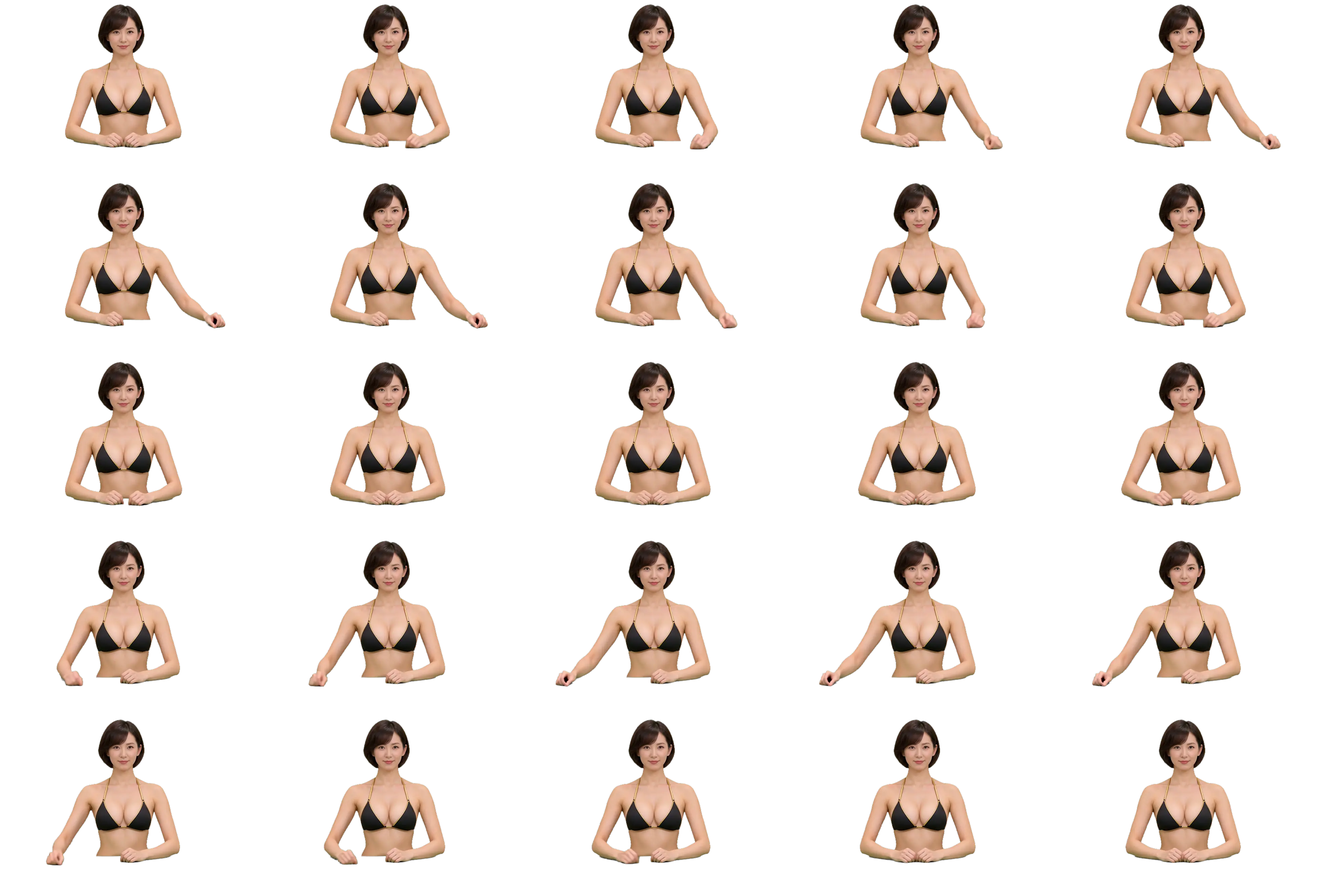
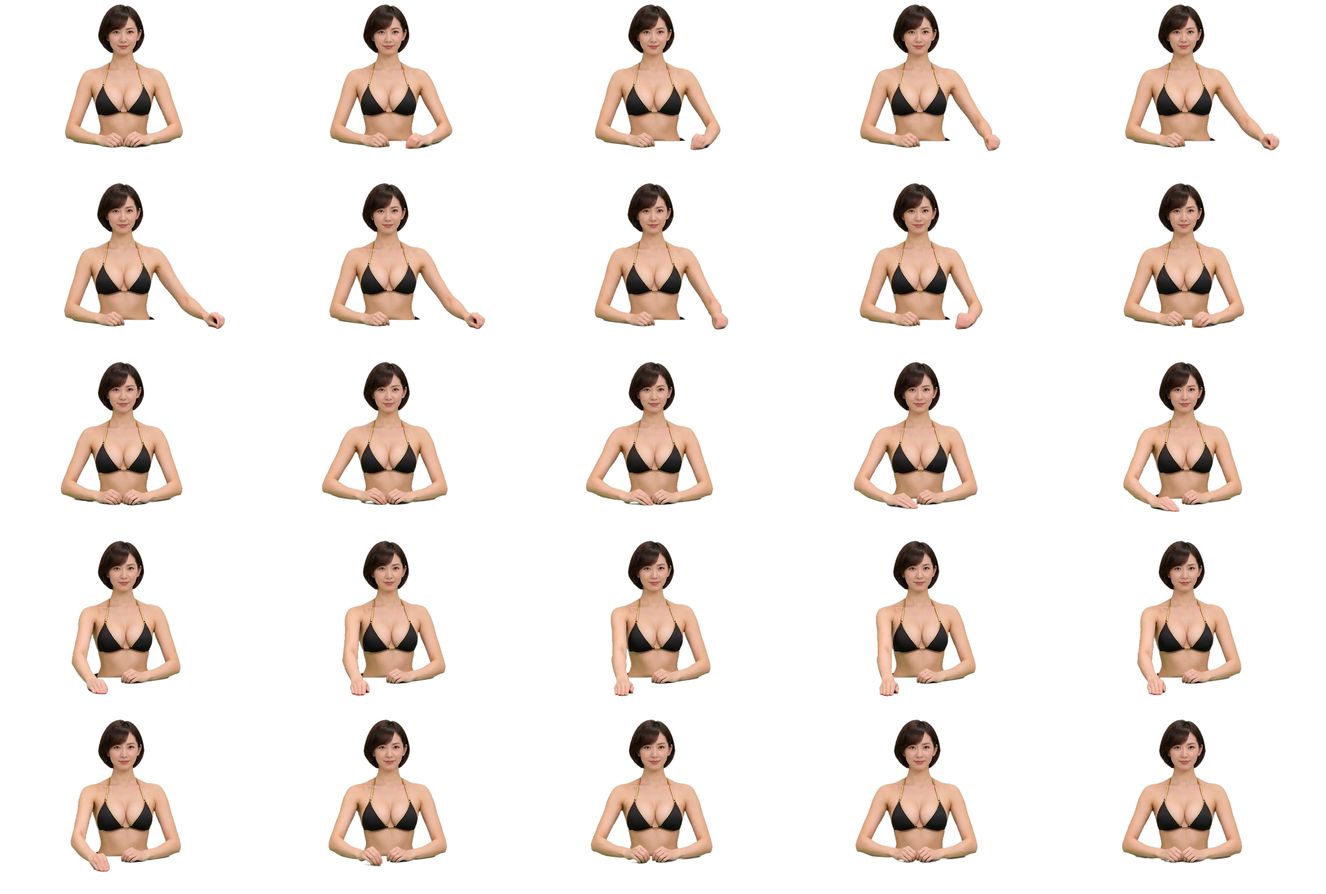
Deploy casino v0.24.3: new deal clips for all dealers
Claude-Session: https://claude.ai/code/session_011oS1hF5NfJ3QT3qcWv1JPQ

diff --git a/docs/casino/index.html b/docs/casino/index.html
@@ -2153,12 +2153,12 @@ html.ios-app .toasts { top: calc(env(safe-area-inset-top, 0px) + 86px); }
         <button class="gtile" type="button" id="lobbySlots"><span class="ico"><svg viewBox="0 0 48 48" aria-hidden="true" fill="none" stroke="currentColor" stroke-width="2.2" stroke-linecap="round" stroke-linejoin="round"><rect x="7" y="8" width="30" height="34" rx="4"/><rect x="11" y="15" width="22" height="13" rx="2"/><path d="M18.3 15v13M25.7 15v13"/><path d="M13 19h3.5l-2.2 6M20.3 19h3.5l-2.2 6M27.6 19h3.5l-2.2 6" stroke-width="1.6"/><path d="M41 12v14M41 26h-4"/><circle cx="41" cy="10" r="2.6" fill="currentColor"/><path d="M13 34h18" /></svg></span><b>老虎机<span class="lh-x">系列</span></b><small>龙腾财宝 · 宝石瀑布 · 水果转轮 · 深海寻宝 · 雷神之锤 · 幸运 7</small></button>
       </div>
     </div>
-    <div class="lfoot"><button class="verbtn" type="button" data-rules="verSheet">俱乐部 <b>v0.24.2</b> · 更新记录</button></div>
+    <div class="lfoot"><button class="verbtn" type="button" data-rules="verSheet">俱乐部 <b>v0.24.3</b> · 更新记录</button></div>
   </section>
 
   <div class="sheet" id="verSheet" hidden><div class="sheet-in" role="dialog" aria-label="更新记录">
     <div class="sheet-head"><h3>更新记录</h3><span class="note">大改版 +0.1.0 · 小版本 +0.0.1</span><button class="iconbtn" type="button" data-close aria-label="关闭">×</button></div>
-    <ol class="vlist"><li><b>v0.24.2</b><span>最后一局：荷官伸手从牌靴抽出黑色 LAST HAND 切牌卡，放在桌子左边，卡片平贴桌面，和闲、庄格子同一个角度（百家乐、龙虎、联机百家乐）</span></li><li><b>v0.24.1</b><span>荷官的腰和桌子贴合：桌面一直延伸到荷官身前，双手自然放在桌面上；联机百家乐的荷官画面放大（下注区、路单和玩家列更紧凑）</span></li><li><b>v0.24.0</b> <i class="vmaj">大改版</i><span>高清真人荷官回归：百家乐 A–D 桌、龙虎两桌和联机百家乐的 7 位荷官全部换成高清绿幕画面，待机眨眼，亲手从牌靴发牌、把牌推到闲庄格子，开牌后一扫收牌，牌跟着手走；身体不再抖动、闪烁或出白边</span></li><li><b>v0.23.0</b> <i class="vmaj">大改版</i><span>麻将新玩法「三人快打（飞）」：3 人、84 张（筒子、字牌、16 张花、4 张百搭飞），5 番起胡；飞可以代替碰、吃，摸到被代替的牌自动起飞，打出飞叫囤飞 +1 番；咬到、花杠、杠马上收钱并加爆，结算 = 番 × 番倍数 × 爆 × 1.5 / 2。所有麻将玩法加入碰、吃、杠、胡、自摸的大字动画</span></li><li><b>v0.22.11</b><span>大厅、百家乐、龙虎和联机百家乐上方加入滚动公告，按 × 可以关闭</span></li><li><b>v0.22.10</b><span>为了给大家更好的观感，真人荷官暂时下桌休息，全新高清版本已经在制作中，敬请期待！在此期间，百家乐、龙虎和联机百家乐会直接显示牌局画面，路单也一直摊开，开牌一目了然。</span></li><li><b>v0.22.9</b><span>荷官动画：清掉动画图的半透明杂点和浅色白边，不再闪烁；桌子凹口逐格贴着荷官的腰线，不再露出空隙或穿过桌面；待机时大多只眨眼，转头少很多</span></li><li><b>v0.22.8</b><span>修复荷官待机时露出相邻画面的问题。</span></li><li><b>v0.22.7</b><span>百家乐与龙虎荷官使用新版动画，龙虎采用同款荷官桌面、路单与牌局布局。</span></li><li><b>v0.22.6</b><span>修正：百家乐荷官动起来时闪烁和白边（清掉动画图里的半透明杂点和浅色描边；发牌、收牌两组动画预先载好，切换不再空白一下）</span></li><li><b>v0.22.5</b><span>百家乐：桌上的牌和闲、庄格子用同一个透视角度，牌平贴在格子里；小屏幕上牌也完整露出</span></li><li><b>v0.22.4</b><span>百家乐：去掉「试发一局」，倒数和牌局状态移到荷官画面右上角，删掉中间那一行让荷官画面更大；桌子凹口改成圆角</span></li><li><b>v0.22.3</b><span>百家乐牌桌改成发牌台形状：两侧桌面延伸到荷官身后，中间凹进去让荷官站在里面；闲、庄格子和牌都跟桌面同一个透视角度</span></li><li><b>v0.22.2</b><span>百家乐和联机百家乐：桌边、牌靴和闲庄牌区对齐荷官的双手，任何屏幕大小都不会错位；荷官画面按屏幕自动调整高度，整页一屏放得下；联机房的聊天列恢复显示</span></li><li><b>v0.22.1</b><span>修正：十三张结算后四家名牌旁的输赢不会消失；联机百家乐开完牌马上更新每个人的输赢</span></li><li><b>v0.22.0</b> <i class="vmaj">大改版</i><span>新游戏「麻将」：港式、四川血战到底、台湾十六张，可练习对 AI 或联机；十三张改成立体牌桌：推荐摆法、牌型快捷键、对调、开始比牌、打枪瞄准开枪、本局结算明细</span></li><li><b>v0.21.2</b><span>百家乐 A、B、C、D 桌及联机房新增五位荷官，发牌和收牌使用每秒 24 张画面，牌局与路单自动翻转。</span></li><li><b>v0.21.1</b><span>百家乐加入双手发牌和右侧牌靴，荷官桌面与牌局同步显示白色牌面。老虎机重绘机台，并更新吉祥物待机和奖励动画。</span></li><li><b>v0.21.0</b> <i class="vmaj">大改版</i><span>新游戏「十三张」：练习桌对 3 个 AI，或开房间和朋友联机（2–4 人，空位 AI 补上）；点选摆牌、自动摆牌、报到、逐道比牌、打枪、全垒打</span></li><li><b>v0.20.2</b><span>百家乐、龙虎、联机百家乐：结果出来 1.5 秒后把牌收成一叠往左边滑走，然后才开始倒数；其他牌桌在下一局发牌前收牌</span></li><li><b>v0.20.1</b><span>联机百家乐加上大眼仔、小路、曱甴路、闲庄和局数，以及 P / B 问路</span></li><li><b>v0.20.0</b><span>老虎机：转轴停下有弹跳和闪光；差一个就进特殊奖励时最后几列放慢发光；大奖动画随金额升级（大奖→巨奖→超级巨奖→史诗大奖）并按机器换颜色；待机时转轴窗口有扫光，深海有鱼影游过，水果机飘起柠檬橙子片</span></li><li><b>v0.19.1</b><span>大奖画面的雷神和金龙去掉白边并一直循环动；雷神免费旋转时标题不再跟着移动</span></li><li><b>v0.19.0</b><span>每台老虎机有自己的中奖特效：金龙喷火球、宝石迸出碎光、水果溅出果汁、深海涟漪和气泡、幸运 7 霓虹烟花；大奖再加全屏特效</span></li><li><b>v0.18.9</b><span>所有老虎机标题改成印在机身上的金属渐层字，不再有方框</span></li><li><b>v0.18.8</b><span>金龙和雷神插画放大，贴在转轴边框上方；龙腾财宝四个头奖排成一行</span></li><li><b>v0.18.7</b><span>优化：龙腾财宝、雷神之锤自动放进一屏；待机动画缩小约 2/3，打开机台才下载；德州摊牌写出完整牌型与踢脚、亮出赢家的 5 张牌；整理重复程序</span></li><li><b>v0.18.6</b><span>雷神之锤：雷球被闪电劈中后才亮起并显示倍数</span></li><li><b>v0.18.5</b><span>金龙和雷神换上新版待机动画与 1.5 秒逐帧奖励动画。</span></li><li><b>v0.18.4</b><span>金龙和雷神改成待机动画，中奖时才播放特殊动画</span></li><li><b>v0.18.3</b><span>正面雷神逐帧挥锤，金龙与雷神加入特殊奖励动画。</span></li><li><b>v0.18.2</b><span>金龙与雷神移到转轴上方，恢复转轴尺寸，加入金龙蜿蜒吐焰与雷神挥锤动画。</span></li><li><b>v0.18.1</b><span>重绘「龙腾财宝」和「雷神之锤」机台，加入金龙游动、雷神守望和旋转特效。</span></li><li><b>v0.18.0</b> <i class="vmaj">大改版</i><span>新老虎机「雷神之锤」：6×5 任意位置中奖、连环消除、雷球倍数 ×500、免费旋转总倍数累积、买免费旋转、加注，闪电特效</span></li><li><b>v0.17.2</b><span>百家乐、龙虎、联机百家乐：牌靴快用完时宣布「最后一局」（动画提醒），那一局结束后才换牌靴</span></li><li><b>v0.17.1</b><span>背景音乐全部换成爵士乐（8 首）；可以从手机加入自己的歌曲</span></li><li><b>v0.17.0</b> <i class="vmaj">大改版</i><span>德州联机房：所有人按「准备」才开始；AI 荷官发牌动画（底牌一张张发到每个座位，公共牌飞到桌上翻开）</span></li><li><b>v0.16.4</b><span>老虎机的免费旋转和奖金转盘要玩家点「开始」才开始（自动旋转时 2 秒后自动开始）；修正水果转轮奖金转盘在手机上不转</span></li><li><b>v0.16.3</b><span>水果转轮奖金转盘、深海寻宝免费旋转更容易触发（回报率仍约 96%）</span></li><li><b>v0.16.2</b><span>修正：iPhone 上背景音乐音量调节无效</span></li><li><b>v0.16.1</b><span>联机房间和练习桌加上开始 / 暂停（房主控制）</span></li><li><b>v0.16.0</b> <i class="vmaj">大改版</i><span>背景音乐（5 首赌场酒廊爵士，可开关、选曲、调音量）；轮盘、老虎机、金币、宝石的真实音效</span></li><li><b>v0.15.1</b><span>牛牛：对子比点数大，都是对子就比对子大小</span></li><li><b>v0.15.0</b> <i class="vmaj">大改版</i><span>加入真实录音音效：筹码、发牌、放牌、洗牌、派彩筹码声（Kenney Casino Audio，CC0）</span></li><li><b>v0.14.9</b><span>音效重做：筹码、发牌、翻牌、倒数、转轮、中奖都更像真实的声音，加上房间回音</span></li><li><b>v0.14.8</b><span>大厅换牌靴时，动画结束后才显示烧了几张</span></li><li><b>v0.14.7</b><span>修正：联机百家乐房主画面的中奖框不会熄灭、路单比牌先出</span></li><li><b>v0.14.6</b><span>清理不再使用的旧样式和旧存档转换代码</span></li><li><b>v0.14.5</b><span>龙虎的下三路和问路也改成红 / 金</span></li><li><b>v0.14.4</b><span>修正：联机百家乐和大厅里的牌桌，要等牌发完才公布结果、路单和输赢</span></li><li><b>v0.14.3</b><span>龙虎改成龙红、虎金；和与同花和合成一个上下对半的青色圆</span></li><li><b>v0.14.2</b><span>龙虎加上问路（预测）按钮；龙虎点数直接显示 A、J、Q、K</span></li><li><b>v0.14.1</b><span>联机房间可以打字聊天，有未读提示</span></li><li><b>v0.14.0</b> <i class="vmaj">大改版</i><span>德州练习桌：一个人和 1–8 个 AI 对打；联机合并成一个入口，输入房间号自动认出游戏；左上角固定的金色「大厅」按钮</span></li><li><b>v0.13.0</b> <i class="vmaj">大改版</i><span>德州扑克联机房：玩家对玩家、AI 荷官发牌、最多 9 人、无限注、边池、抽水 5%；百家乐和龙虎换桌时桌号直接写在牌桌中间；修正离开联机房时筹码退两次</span></li><li><b>v0.12.0</b> <i class="vmaj">大改版</i><span>联机房间：开房间拿 6 位房间号，和朋友同桌玩百家乐，同一副牌、同一条路，看得到彼此的下注和输赢，可以发表情</span></li><li><b>v0.11.1</b><span>牛牛加入对子（组成牛点的两张是对子赔 2 倍）；大厅恢复完整排版，可以上下滑动</span></li><li><b>v0.11.0</b> <i class="vmaj">大改版</i><span>新老虎机「深海寻宝」：潜水员收集宝箱、升级倍数到 ×10；每台老虎机加上跑马灯、背景特效和中奖金币</span></li><li><b>v0.10.0</b> <i class="vmaj">大改版</i><span>新游戏：龙虎（2 桌）、牛牛、老虎机「水果转轮」；换牌靴动画约 20 秒；老虎机按钮显示当前机台图标，左右滑动只换机台</span></li><li><b>v0.9.3</b><span>主动洗牌时大厅也能看到洗牌、装靴、烧牌过程</span></li><li><b>v0.9.2</b><span>发牌中也可以换桌；大厅清楚显示烧牌张数</span></li><li><b>v0.9.1</b><span>百家乐和老虎机滑动时画面跟手切换；大厅显示换牌靴动画</span></li><li><b>v0.9.0</b> <i class="vmaj">大改版</i><span>新老虎机「宝石瀑布」：6×5 任意位置中奖、连环消除、倍数阶梯</span></li><li><b>v0.8.10</b><span>加上版本号与更新记录</span></li><li><b>v0.8.9</b><span>金币锁定重转更易出金币，转动更久</span></li><li><b>v0.8.8</b><span>金币锁定更常出现，金币金额调低</span></li><li><b>v0.8.7</b><span>GRAND、MAJOR 数字滚动；大厅选机弹窗</span></li><li><b>v0.8.6</b><span>龙腾财宝中奖率提高；选机弹窗</span></li><li><b>v0.8.5</b><span>金币锁定由玩家旋转，空格有转轮效果</span></li><li><b>v0.8.4</b><span>老虎机直接选每局金额</span></li><li><b>v0.8.3</b><span>老虎机合并为系列；大奖动画 20 秒</span></li><li><b>v0.8.2</b><span>老虎机符号重绘为写实风格</span></li><li><b>v0.8.1</b><span>老虎机加速；大奖动画</span></li><li><b>v0.8.0</b> <i class="vmaj">大改版</i><span>新老虎机「龙腾财宝」：243 路、金币锁定、四级头奖</span></li><li><b>v0.7.2</b><span>老虎机自动旋转</span></li><li><b>v0.7.1</b><span>去掉重置 10,000 按钮</span></li><li><b>v0.7.0</b> <i class="vmaj">大改版</i><span>新游戏：德州扑克、老虎机；滑动换桌；大厅图标</span></li><li><b>v0.6.2</b><span>离开牌桌也照常开局并提示结果</span></li><li><b>v0.6.1</b><span>改名「俱乐部」；换牌靴动画与烧牌</span></li><li><b>v0.6.0</b> <i class="vmaj">大改版</i><span>黑金配色与新图标</span></li><li><b>v0.5.2</b><span>每个游戏加「重复」下注</span></li><li><b>v0.5.1</b><span>+100 万余额按钮；10k、100k 筹码</span></li><li><b>v0.5.0</b> <i class="vmaj">大改版</i><span>所有游戏统一界面；百家乐 4 桌；新游戏三张牌</span></li><li><b>v0.4.4</b><span>修 iPhone 主屏幕底部被裁</span></li><li><b>v0.4.3</b><span>修 iPhone 主屏幕顶部被挡</span></li><li><b>v0.4.2</b><span>21点也从牌靴发牌；修主屏幕位置</span></li><li><b>v0.4.1</b><span>音效；发牌从牌靴飞出并翻牌；筹码居中</span></li><li><b>v0.4.0</b> <i class="vmaj">大改版</i><span>百家乐改成真人桌布局：下三路、问路、龙宝、完美对子</span></li><li><b>v0.3.1</b><span>百家乐改为 15 秒自动开局</span></li><li><b>v0.3.0</b> <i class="vmaj">大改版</i><span>做成可加到主屏幕的 App（离线可用）</span></li><li><b>v0.2.1</b><span>大厅显示路单、路单保存、洗牌按钮</span></li><li><b>v0.2.0</b> <i class="vmaj">大改版</i><span>重新布局：整个画面一屏不用滑动</span></li><li><b>v0.1.4</b><span>21点投降；路单移到上方；筹码栏固定底部</span></li><li><b>v0.1.3</b><span>下注处显示筹码叠；百家乐 30 秒自动开局</span></li><li><b>v0.1.2</b><span>轮盘加分注、街注、角注、线注；修竖屏比例</span></li><li><b>v0.1.1</b><span>百家乐不下注也可发牌，改为大路</span></li><li><b>v0.1.0</b> <i class="vmaj">大改版</i><span>首版：百家乐、21点、轮盘，虚拟筹码</span></li></ol>
+    <ol class="vlist"><li><b>v0.24.3</b><span>7 位荷官换上新版发牌动作：右手到牌靴取牌，把牌放到身前桌面再推进闲、庄（龙、虎）格子，牌跟着手走</span></li><li><b>v0.24.2</b><span>最后一局：荷官伸手从牌靴抽出黑色 LAST HAND 切牌卡，放在桌子左边，卡片平贴桌面，和闲、庄格子同一个角度（百家乐、龙虎、联机百家乐）</span></li><li><b>v0.24.1</b><span>荷官的腰和桌子贴合：桌面一直延伸到荷官身前，双手自然放在桌面上；联机百家乐的荷官画面放大（下注区、路单和玩家列更紧凑）</span></li><li><b>v0.24.0</b> <i class="vmaj">大改版</i><span>高清真人荷官回归：百家乐 A–D 桌、龙虎两桌和联机百家乐的 7 位荷官全部换成高清绿幕画面，待机眨眼，亲手从牌靴发牌、把牌推到闲庄格子，开牌后一扫收牌，牌跟着手走；身体不再抖动、闪烁或出白边</span></li><li><b>v0.23.0</b> <i class="vmaj">大改版</i><span>麻将新玩法「三人快打（飞）」：3 人、84 张（筒子、字牌、16 张花、4 张百搭飞），5 番起胡；飞可以代替碰、吃，摸到被代替的牌自动起飞，打出飞叫囤飞 +1 番；咬到、花杠、杠马上收钱并加爆，结算 = 番 × 番倍数 × 爆 × 1.5 / 2。所有麻将玩法加入碰、吃、杠、胡、自摸的大字动画</span></li><li><b>v0.22.11</b><span>大厅、百家乐、龙虎和联机百家乐上方加入滚动公告，按 × 可以关闭</span></li><li><b>v0.22.10</b><span>为了给大家更好的观感，真人荷官暂时下桌休息，全新高清版本已经在制作中，敬请期待！在此期间，百家乐、龙虎和联机百家乐会直接显示牌局画面，路单也一直摊开，开牌一目了然。</span></li><li><b>v0.22.9</b><span>荷官动画：清掉动画图的半透明杂点和浅色白边，不再闪烁；桌子凹口逐格贴着荷官的腰线，不再露出空隙或穿过桌面；待机时大多只眨眼，转头少很多</span></li><li><b>v0.22.8</b><span>修复荷官待机时露出相邻画面的问题。</span></li><li><b>v0.22.7</b><span>百家乐与龙虎荷官使用新版动画，龙虎采用同款荷官桌面、路单与牌局布局。</span></li><li><b>v0.22.6</b><span>修正：百家乐荷官动起来时闪烁和白边（清掉动画图里的半透明杂点和浅色描边；发牌、收牌两组动画预先载好，切换不再空白一下）</span></li><li><b>v0.22.5</b><span>百家乐：桌上的牌和闲、庄格子用同一个透视角度，牌平贴在格子里；小屏幕上牌也完整露出</span></li><li><b>v0.22.4</b><span>百家乐：去掉「试发一局」，倒数和牌局状态移到荷官画面右上角，删掉中间那一行让荷官画面更大；桌子凹口改成圆角</span></li><li><b>v0.22.3</b><span>百家乐牌桌改成发牌台形状：两侧桌面延伸到荷官身后，中间凹进去让荷官站在里面；闲、庄格子和牌都跟桌面同一个透视角度</span></li><li><b>v0.22.2</b><span>百家乐和联机百家乐：桌边、牌靴和闲庄牌区对齐荷官的双手，任何屏幕大小都不会错位；荷官画面按屏幕自动调整高度，整页一屏放得下；联机房的聊天列恢复显示</span></li><li><b>v0.22.1</b><span>修正：十三张结算后四家名牌旁的输赢不会消失；联机百家乐开完牌马上更新每个人的输赢</span></li><li><b>v0.22.0</b> <i class="vmaj">大改版</i><span>新游戏「麻将」：港式、四川血战到底、台湾十六张，可练习对 AI 或联机；十三张改成立体牌桌：推荐摆法、牌型快捷键、对调、开始比牌、打枪瞄准开枪、本局结算明细</span></li><li><b>v0.21.2</b><span>百家乐 A、B、C、D 桌及联机房新增五位荷官，发牌和收牌使用每秒 24 张画面，牌局与路单自动翻转。</span></li><li><b>v0.21.1</b><span>百家乐加入双手发牌和右侧牌靴，荷官桌面与牌局同步显示白色牌面。老虎机重绘机台，并更新吉祥物待机和奖励动画。</span></li><li><b>v0.21.0</b> <i class="vmaj">大改版</i><span>新游戏「十三张」：练习桌对 3 个 AI，或开房间和朋友联机（2–4 人，空位 AI 补上）；点选摆牌、自动摆牌、报到、逐道比牌、打枪、全垒打</span></li><li><b>v0.20.2</b><span>百家乐、龙虎、联机百家乐：结果出来 1.5 秒后把牌收成一叠往左边滑走，然后才开始倒数；其他牌桌在下一局发牌前收牌</span></li><li><b>v0.20.1</b><span>联机百家乐加上大眼仔、小路、曱甴路、闲庄和局数，以及 P / B 问路</span></li><li><b>v0.20.0</b><span>老虎机：转轴停下有弹跳和闪光；差一个就进特殊奖励时最后几列放慢发光；大奖动画随金额升级（大奖→巨奖→超级巨奖→史诗大奖）并按机器换颜色；待机时转轴窗口有扫光，深海有鱼影游过，水果机飘起柠檬橙子片</span></li><li><b>v0.19.1</b><span>大奖画面的雷神和金龙去掉白边并一直循环动；雷神免费旋转时标题不再跟着移动</span></li><li><b>v0.19.0</b><span>每台老虎机有自己的中奖特效：金龙喷火球、宝石迸出碎光、水果溅出果汁、深海涟漪和气泡、幸运 7 霓虹烟花；大奖再加全屏特效</span></li><li><b>v0.18.9</b><span>所有老虎机标题改成印在机身上的金属渐层字，不再有方框</span></li><li><b>v0.18.8</b><span>金龙和雷神插画放大，贴在转轴边框上方；龙腾财宝四个头奖排成一行</span></li><li><b>v0.18.7</b><span>优化：龙腾财宝、雷神之锤自动放进一屏；待机动画缩小约 2/3，打开机台才下载；德州摊牌写出完整牌型与踢脚、亮出赢家的 5 张牌；整理重复程序</span></li><li><b>v0.18.6</b><span>雷神之锤：雷球被闪电劈中后才亮起并显示倍数</span></li><li><b>v0.18.5</b><span>金龙和雷神换上新版待机动画与 1.5 秒逐帧奖励动画。</span></li><li><b>v0.18.4</b><span>金龙和雷神改成待机动画，中奖时才播放特殊动画</span></li><li><b>v0.18.3</b><span>正面雷神逐帧挥锤，金龙与雷神加入特殊奖励动画。</span></li><li><b>v0.18.2</b><span>金龙与雷神移到转轴上方，恢复转轴尺寸，加入金龙蜿蜒吐焰与雷神挥锤动画。</span></li><li><b>v0.18.1</b><span>重绘「龙腾财宝」和「雷神之锤」机台，加入金龙游动、雷神守望和旋转特效。</span></li><li><b>v0.18.0</b> <i class="vmaj">大改版</i><span>新老虎机「雷神之锤」：6×5 任意位置中奖、连环消除、雷球倍数 ×500、免费旋转总倍数累积、买免费旋转、加注，闪电特效</span></li><li><b>v0.17.2</b><span>百家乐、龙虎、联机百家乐：牌靴快用完时宣布「最后一局」（动画提醒），那一局结束后才换牌靴</span></li><li><b>v0.17.1</b><span>背景音乐全部换成爵士乐（8 首）；可以从手机加入自己的歌曲</span></li><li><b>v0.17.0</b> <i class="vmaj">大改版</i><span>德州联机房：所有人按「准备」才开始；AI 荷官发牌动画（底牌一张张发到每个座位，公共牌飞到桌上翻开）</span></li><li><b>v0.16.4</b><span>老虎机的免费旋转和奖金转盘要玩家点「开始」才开始（自动旋转时 2 秒后自动开始）；修正水果转轮奖金转盘在手机上不转</span></li><li><b>v0.16.3</b><span>水果转轮奖金转盘、深海寻宝免费旋转更容易触发（回报率仍约 96%）</span></li><li><b>v0.16.2</b><span>修正：iPhone 上背景音乐音量调节无效</span></li><li><b>v0.16.1</b><span>联机房间和练习桌加上开始 / 暂停（房主控制）</span></li><li><b>v0.16.0</b> <i class="vmaj">大改版</i><span>背景音乐（5 首赌场酒廊爵士，可开关、选曲、调音量）；轮盘、老虎机、金币、宝石的真实音效</span></li><li><b>v0.15.1</b><span>牛牛：对子比点数大，都是对子就比对子大小</span></li><li><b>v0.15.0</b> <i class="vmaj">大改版</i><span>加入真实录音音效：筹码、发牌、放牌、洗牌、派彩筹码声（Kenney Casino Audio，CC0）</span></li><li><b>v0.14.9</b><span>音效重做：筹码、发牌、翻牌、倒数、转轮、中奖都更像真实的声音，加上房间回音</span></li><li><b>v0.14.8</b><span>大厅换牌靴时，动画结束后才显示烧了几张</span></li><li><b>v0.14.7</b><span>修正：联机百家乐房主画面的中奖框不会熄灭、路单比牌先出</span></li><li><b>v0.14.6</b><span>清理不再使用的旧样式和旧存档转换代码</span></li><li><b>v0.14.5</b><span>龙虎的下三路和问路也改成红 / 金</span></li><li><b>v0.14.4</b><span>修正：联机百家乐和大厅里的牌桌，要等牌发完才公布结果、路单和输赢</span></li><li><b>v0.14.3</b><span>龙虎改成龙红、虎金；和与同花和合成一个上下对半的青色圆</span></li><li><b>v0.14.2</b><span>龙虎加上问路（预测）按钮；龙虎点数直接显示 A、J、Q、K</span></li><li><b>v0.14.1</b><span>联机房间可以打字聊天，有未读提示</span></li><li><b>v0.14.0</b> <i class="vmaj">大改版</i><span>德州练习桌：一个人和 1–8 个 AI 对打；联机合并成一个入口，输入房间号自动认出游戏；左上角固定的金色「大厅」按钮</span></li><li><b>v0.13.0</b> <i class="vmaj">大改版</i><span>德州扑克联机房：玩家对玩家、AI 荷官发牌、最多 9 人、无限注、边池、抽水 5%；百家乐和龙虎换桌时桌号直接写在牌桌中间；修正离开联机房时筹码退两次</span></li><li><b>v0.12.0</b> <i class="vmaj">大改版</i><span>联机房间：开房间拿 6 位房间号，和朋友同桌玩百家乐，同一副牌、同一条路，看得到彼此的下注和输赢，可以发表情</span></li><li><b>v0.11.1</b><span>牛牛加入对子（组成牛点的两张是对子赔 2 倍）；大厅恢复完整排版，可以上下滑动</span></li><li><b>v0.11.0</b> <i class="vmaj">大改版</i><span>新老虎机「深海寻宝」：潜水员收集宝箱、升级倍数到 ×10；每台老虎机加上跑马灯、背景特效和中奖金币</span></li><li><b>v0.10.0</b> <i class="vmaj">大改版</i><span>新游戏：龙虎（2 桌）、牛牛、老虎机「水果转轮」；换牌靴动画约 20 秒；老虎机按钮显示当前机台图标，左右滑动只换机台</span></li><li><b>v0.9.3</b><span>主动洗牌时大厅也能看到洗牌、装靴、烧牌过程</span></li><li><b>v0.9.2</b><span>发牌中也可以换桌；大厅清楚显示烧牌张数</span></li><li><b>v0.9.1</b><span>百家乐和老虎机滑动时画面跟手切换；大厅显示换牌靴动画</span></li><li><b>v0.9.0</b> <i class="vmaj">大改版</i><span>新老虎机「宝石瀑布」：6×5 任意位置中奖、连环消除、倍数阶梯</span></li><li><b>v0.8.10</b><span>加上版本号与更新记录</span></li><li><b>v0.8.9</b><span>金币锁定重转更易出金币，转动更久</span></li><li><b>v0.8.8</b><span>金币锁定更常出现，金币金额调低</span></li><li><b>v0.8.7</b><span>GRAND、MAJOR 数字滚动；大厅选机弹窗</span></li><li><b>v0.8.6</b><span>龙腾财宝中奖率提高；选机弹窗</span></li><li><b>v0.8.5</b><span>金币锁定由玩家旋转，空格有转轮效果</span></li><li><b>v0.8.4</b><span>老虎机直接选每局金额</span></li><li><b>v0.8.3</b><span>老虎机合并为系列；大奖动画 20 秒</span></li><li><b>v0.8.2</b><span>老虎机符号重绘为写实风格</span></li><li><b>v0.8.1</b><span>老虎机加速；大奖动画</span></li><li><b>v0.8.0</b> <i class="vmaj">大改版</i><span>新老虎机「龙腾财宝」：243 路、金币锁定、四级头奖</span></li><li><b>v0.7.2</b><span>老虎机自动旋转</span></li><li><b>v0.7.1</b><span>去掉重置 10,000 按钮</span></li><li><b>v0.7.0</b> <i class="vmaj">大改版</i><span>新游戏：德州扑克、老虎机；滑动换桌；大厅图标</span></li><li><b>v0.6.2</b><span>离开牌桌也照常开局并提示结果</span></li><li><b>v0.6.1</b><span>改名「俱乐部」；换牌靴动画与烧牌</span></li><li><b>v0.6.0</b> <i class="vmaj">大改版</i><span>黑金配色与新图标</span></li><li><b>v0.5.2</b><span>每个游戏加「重复」下注</span></li><li><b>v0.5.1</b><span>+100 万余额按钮；10k、100k 筹码</span></li><li><b>v0.5.0</b> <i class="vmaj">大改版</i><span>所有游戏统一界面；百家乐 4 桌；新游戏三张牌</span></li><li><b>v0.4.4</b><span>修 iPhone 主屏幕底部被裁</span></li><li><b>v0.4.3</b><span>修 iPhone 主屏幕顶部被挡</span></li><li><b>v0.4.2</b><span>21点也从牌靴发牌；修主屏幕位置</span></li><li><b>v0.4.1</b><span>音效；发牌从牌靴飞出并翻牌；筹码居中</span></li><li><b>v0.4.0</b> <i class="vmaj">大改版</i><span>百家乐改成真人桌布局：下三路、问路、龙宝、完美对子</span></li><li><b>v0.3.1</b><span>百家乐改为 15 秒自动开局</span></li><li><b>v0.3.0</b> <i class="vmaj">大改版</i><span>做成可加到主屏幕的 App（离线可用）</span></li><li><b>v0.2.1</b><span>大厅显示路单、路单保存、洗牌按钮</span></li><li><b>v0.2.0</b> <i class="vmaj">大改版</i><span>重新布局：整个画面一屏不用滑动</span></li><li><b>v0.1.4</b><span>21点投降；路单移到上方；筹码栏固定底部</span></li><li><b>v0.1.3</b><span>下注处显示筹码叠；百家乐 30 秒自动开局</span></li><li><b>v0.1.2</b><span>轮盘加分注、街注、角注、线注；修竖屏比例</span></li><li><b>v0.1.1</b><span>百家乐不下注也可发牌，改为大路</span></li><li><b>v0.1.0</b> <i class="vmaj">大改版</i><span>首版：百家乐、21点、轮盘，虚拟筹码</span></li></ol>
     <p class="note" style="margin-top:10px">音乐与音效的作者和授权：点右上角 ♪ 查看。</p>
   </div></div>
 
@@ -3978,23 +3978,24 @@ html.ios-app .toasts { top: calc(env(safe-area-inset-top, 0px) + 86px); }
   // (25 frames each over one second, drawn over the whole canvas). The canvas is 12% wider than the portrait box so her
   // reaching hands stay inside. Frame space 1183 × 798; cut = the far edge of the table in her video (row of 266): the felt comes up to it and her
   // forearms and hands rest on top of it, so there is never a gap between her waist and the table.
-  // hands: [clip frame, x, y] fractions of the canvas — the card leaves the shoe at her right fingertips and is carried left;
+  // hands: [clip frame, x, y] fractions of the canvas — the card leaves the shoe at her right fingertips and is laid down
+  // where her hand presses it onto the felt, then slides into its box;
   // shoe: fraction of the portrait box; sweep: her left fingertips while she collects, frame by frame.
   const DEALER_PERSON = true;
   const DEALER_V3 = Object.fromEntries(Object.entries({
-    A: { cut: 209, art: "a", n: 12, eye: [467, 70, 165, 136], hands: [[5, 0.851, 0.841], [11, 0.499, 0.858], [17, 0.148, 0.876]], shoe: [0.893, 0.841],
+    A: { cut: 209, art: "a", n: 12, eye: [467, 70, 165, 136], hands: [[5, 0.854, 0.848], [9, 0.572, 0.869], [13, 0.29, 0.889]], shoe: [0.896, 0.848],
       sweep: [[7, 0.413, 0.877], [8, 0.346, 0.885], [9, 0.263, 0.885], [10, 0.18, 0.885], [11, 0.104, 0.877], [12, 0.052, 0.87], [13, 0.018, 0.863], [14, 0.008, 0.859], [15, 0.007, 0.859], [16, 0.012, 0.856]] },
-    B: { cut: 209, art: "b", n: 12, eye: [481, 128, 115, 48], hands: [[5, 0.846, 0.809], [11, 0.496, 0.822], [17, 0.146, 0.835]], shoe: [0.887, 0.809],
+    B: { cut: 209, art: "b", n: 12, eye: [481, 128, 115, 48], hands: [[5, 0.849, 0.831], [10, 0.5, 0.854], [15, 0.15, 0.876]], shoe: [0.891, 0.831],
       sweep: [[7, 0.398, 0.867], [8, 0.336, 0.874], [9, 0.263, 0.876], [10, 0.19, 0.876], [11, 0.124, 0.872], [12, 0.078, 0.864], [13, 0.047, 0.86], [14, 0.038, 0.857], [15, 0.037, 0.857]] },
-    C: { cut: 210.3, art: "c", n: 12, eye: [491, 123, 117, 43], hands: [[5, 0.849, 0.806], [12, 0.493, 0.818], [18, 0.136, 0.829]], shoe: [0.891, 0.806],
+    C: { cut: 210.3, art: "c", n: 12, eye: [491, 123, 117, 43], hands: [[5, 0.847, 0.793], [12, 0.597, 0.844], [18, 0.346, 0.894]], shoe: [0.889, 0.793],
       sweep: [[7, 0.414, 0.875], [8, 0.351, 0.877], [9, 0.247, 0.88], [10, 0.181, 0.877], [11, 0.1, 0.868], [12, 0.058, 0.861], [13, 0.027, 0.854], [14, 0.021, 0.854], [15, 0.021, 0.854]] },
-    D: { cut: 209.4, art: "d", n: 12, eye: [490, 148, 120, 44], hands: [[5, 0.883, 0.831], [12, 0.498, 0.844], [18, 0.114, 0.856]], shoe: [0.929, 0.831],
+    D: { cut: 209.4, art: "d", n: 12, eye: [490, 148, 120, 44], hands: [[6, 0.915, 0.812], [11, 0.617, 0.851], [16, 0.319, 0.889]], shoe: [0.964, 0.812],
       sweep: [[7, 0.439, 0.87], [8, 0.379, 0.875], [9, 0.28, 0.88], [10, 0.215, 0.877], [11, 0.132, 0.873], [12, 0.088, 0.868], [13, 0.049, 0.861], [14, 0.039, 0.856], [15, 0.036, 0.856], [16, 0.049, 0.849]] },
-    ROOM: { cut: 208.1, art: "room", n: 12, eye: [495, 128, 119, 42], hands: [[4, 0.843, 0.81], [10, 0.493, 0.824], [17, 0.143, 0.837]], shoe: [0.884, 0.81],
+    ROOM: { cut: 208.1, art: "room", n: 12, eye: [495, 128, 119, 42], hands: [[5, 0.924, 0.834], [12, 0.56, 0.857], [20, 0.195, 0.88]], shoe: [0.975, 0.834],
       sweep: [[7, 0.446, 0.887], [8, 0.378, 0.889], [9, 0.267, 0.889], [10, 0.191, 0.889], [11, 0.104, 0.882], [12, 0.056, 0.873], [13, 0.021, 0.866], [14, 0.015, 0.863], [15, 0.017, 0.861]] },
-    DRAGON: { cut: 212.8, art: "dragon", n: 12, eye: [488, 142, 112, 47], hands: [[5, 0.824, 0.802], [12, 0.494, 0.815], [18, 0.164, 0.828]], shoe: [0.862, 0.802],
+    DRAGON: { cut: 212.8, art: "dragon", n: 12, eye: [488, 142, 112, 47], hands: [[6, 0.879, 0.809], [12, 0.591, 0.844], [17, 0.303, 0.88]], shoe: [0.925, 0.809],
       sweep: [[7, 0.456, 0.863], [8, 0.377, 0.87], [9, 0.314, 0.873], [10, 0.229, 0.87], [11, 0.174, 0.866], [12, 0.115, 0.859], [13, 0.088, 0.854], [14, 0.071, 0.847], [15, 0.069, 0.847], [16, 0.069, 0.847]] },
-    TIGER: { cut: 209.7, art: "tiger", n: 12, eye: [492, 134, 124, 112], hands: [[5, 0.843, 0.81], [11, 0.494, 0.82], [17, 0.144, 0.83]], shoe: [0.884, 0.81],
+    TIGER: { cut: 209.7, art: "tiger", n: 12, eye: [492, 134, 124, 112], hands: [[6, 0.934, 0.825], [11, 0.622, 0.86], [16, 0.311, 0.894]], shoe: [0.986, 0.825],
       sweep: [[7, 0.425, 0.877], [8, 0.369, 0.882], [9, 0.265, 0.88], [10, 0.198, 0.88], [11, 0.114, 0.875], [12, 0.07, 0.87], [13, 0.033, 0.863], [14, 0.025, 0.861], [15, 0.027, 0.859]] },
   }).map(([k, c]) => [k, Object.assign({ cut: 220, body: "art/dealers-v3/" + c.art + "-body.webp", blink: "art/dealers-v3/" + c.art + "-blink.webp",
     clips: { deal: "art/dealers-v3/" + c.art + "-deal.webp", collect: "art/dealers-v3/" + c.art + "-collect.webp" }, clipN: 25, clipCols: 5, clipW: 789, clipH: 532 }, c)]));

diff --git a/docs/casino/sw.js b/docs/casino/sw.js
@@ -1,6 +1,6 @@
 // Offline support for the 俱乐部 home-screen app.
 // Bump VERSION whenever index.html changes so installed copies pick up the update.
-const VERSION = "gbc-150bb59908";
+const VERSION = "gbc-9d7fcd255e";
 const CORE = ["./", "index.html", "manifest.webmanifest", "icons/icon-192.png", "icons/icon-512.png", "icons/apple-touch-icon.png", "icons/favicon-32.png",
   "cabinet-test.css?v=0.24.2", "art/cabinets/NotoSerifSC-cabinet.otf", "art/baccarat-shoe.webp",
   ...["a", "b", "c", "d", "dragon", "tiger"].flatMap(table => ["body", "blink", "deal", "collect"].map(part => "art/dealers-v3/" + table + "-" + part + ".webp"))];
